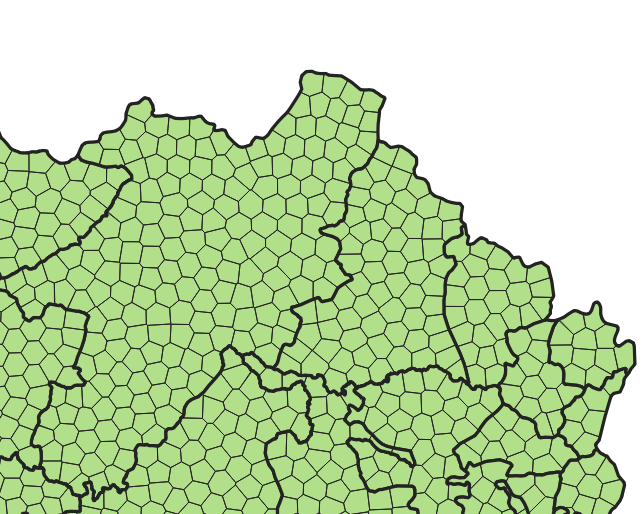
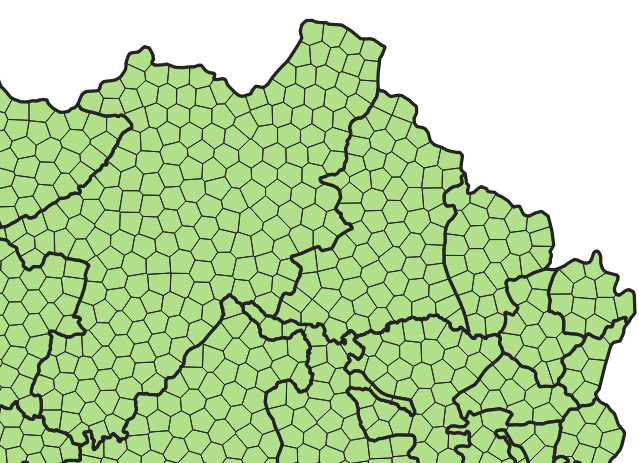
Update examples readme to include subdivision parameters.

diff --git a/rastertools/shape.py b/rastertools/shape.py
@@ -251,7 +251,7 @@ def shape_subdivide(shape_stem: Union[str, Path],
     :param out_shape_stem: Output shapefile stem. Default is shape_stem with "_sub" suffix.
     :param out_has_centers: A flag controlling whether to export sub-shape centers. Default is False.
     :param top_n: Process top n MultiPolygons. Used to test large datasets. By default, all MultiPolygons are processed.
-    :param shape_attr: The shape attribute used as an identity attribute in the output shapes. Default is "DOTNAME".
+    :param shape_attr: The shape's attribute used as a prefix of output shapes identity attribute. Default is "DOTNAME".
     :param box_target_area_km2: Target box area used to calculate the number of boxes (clusters).
     :param points_per_box: Points-per-box-dimension. Higher is slower and more accurate.
     :param random_seed: Random seed, expose for reproducibility.

diff --git a/examples/README.md b/examples/README.md
@@ -30,12 +30,27 @@ You can see the code for this in [tests/test_scenarios.py](../tests/test_scenari
 ## Creating Subdivision Layer
 This example shows how to use the `shape_subdivide` function to create a subdivision layer.
 
-To run this example execute:`
+To run this example execute:
 
 ```bash
-`python worldpop_clipping.py  
+python worldpop_clipping.py  
 ```
-The example will generate subdivision shapes (Voronoi polygons) and their visualization (see `results/COD_LEV02_ZONES_100km.png` image).  
 
-To explore subdivision shapes you can also use QGIS:  
-<img src="../docs/images/subdivision.png" width="400">
+The `shape_subdivide` function exposes three parameters you can use to tailor the subdivision layer:
+- `box_target_area_km2`: used to calculate the number of boxes (clusters) 
+- `points_per_box`: higher is slower and more accurate.   
+- `random_seed`: random seed 
+
+For example, this QGIS visualization show subdivision shapes for two values of `box_target_area_km2`:   
+
+<table>
+<tr>
+<td>100 km2 (default)</td>
+<td>200 km2</td>
+</tr>
+<tr>
+<td><img src="../docs/images/subdivision_100km2.png" width="400"></td> 
+<td><img src="../docs/images/subdivision_200km2.png" width="400"></td>
+</tr></table>
+
+If you don't have QGIS installed, the example plots generated subdivision layers (see `results/COD_LEV02_ZONES_100km.png` image).
